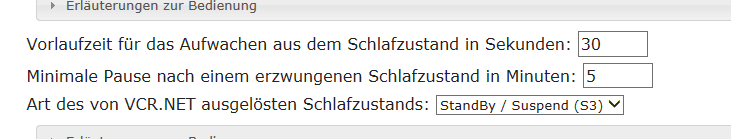
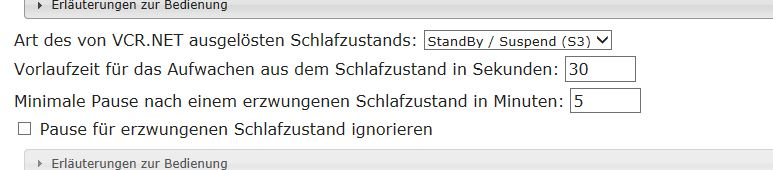
FAQ Hibernate

diff --git a/VCR.NET/WebClient41/FAQ/hibernation.html b/VCR.NET/WebClient41/FAQ/hibernation.html
@@ -7,97 +7,110 @@
     <div>
         <div id="faqContents" data-title="Schlafzustand">
             Der VCR.NET Recording Service ist ein unsichtbar im Hintergrund laufender Windows
-        Dienst, der selbstständig programmierte Aufzeichnungen und <a href="#faq;tasks">Sonderaufgaben</a>
+            Dienst, der selbstständig programmierte Aufzeichnungen und <a href="#faq;tasks">Sonderaufgaben</a>
             ausführen soll. Dabei ist die Zusammenarbeit mit dem Schlafzustand des Rechners
-        ein wichtiger Aspekt. Zum Verständnis der Abläufen werden nun einige Szenarien vorgestellt,
-        beginnend mit einem eher untypischen Fall: dem Betrieb des VCR.NET auf einem gesonderten
-        Rechner, dessen einzige Aufgabe die Aufzeichnung von DVB Ausstrahlungen ist. Der
-        untypische Fall für dieses Beispiel ist, dass es dem VCR.NET auch gestattet sei,
-        den Rechner in den Schlafzustand zu versetzen - ohne zusätzliche Maßnahmen steht
-        der Rechner dann nicht ständig zur Programmierung neuer Aufzeichnungen zur Verfügung.<br />
+            ein wichtiger Aspekt. Zum Verständnis der Abläufen werden nun einige Szenarien vorgestellt,
+            beginnend mit einem eher untypischen Fall: dem Betrieb des VCR.NET auf einem gesonderten
+            Rechner, dessen einzige Aufgabe die Aufzeichnung von DVB Ausstrahlungen ist. Der
+            untypische Fall für dieses Beispiel ist, dass es dem VCR.NET auch gestattet sei,
+            den Rechner in den Schlafzustand zu versetzen - ohne zusätzliche Maßnahmen steht
+            der Rechner dann nicht ständig zur Programmierung neuer Aufzeichnungen zur Verfügung.<br />
             <br />
             <img alt="Einstellungen zum Schlafzustand" class="faqShot" src="FAQ/hibernate.png" />
             <br />
             <br />
             Grundsätzlich stellt der VCR.NET Recording Service sicher, dass der Rechner für
-        programmierte Aufzeichnungen aus dem Schlafzustand aufgeweckt wird, egal wie der
-        Übergang in den Schlafzustand erfolgt ist. Dieses Verhalten kann nicht deaktiviert
-        werden. Im ersten Szenario arbeitet der VCR.NET Recording Service wie folgt: für
-        jede Aufzeichnung oder Sonderaufgabe wird der Rechner aus dem Schlafzustand aufgeweckt.
-        Da dieser Vorgang alleine von System zu System verschieden lange dauert, kann in
-        der Konfiguration eine entsprechende Vorlaufzeit programmiert werden. Diese ergibt
-        sich aus Erfahrungswerten und ist im Beispiel 30 Sekunden - auf einem anderen Rechner
-        reichten 150 Sekunden gerade einmal aus. Diese Zeit hat keinen Einfluss auf den
-        Beginn einer Aufzeichnung, sofern sie vernünftig gewählt wurde.
-        <br />
+            programmierte Aufzeichnungen aus dem Schlafzustand aufgeweckt wird, egal wie der
+            Übergang in den Schlafzustand erfolgt ist. Dieses Verhalten kann nicht deaktiviert
+            werden. Im ersten Szenario arbeitet der VCR.NET Recording Service wie folgt: für
+            jede Aufzeichnung oder Sonderaufgabe wird der Rechner aus dem Schlafzustand aufgeweckt.
+            Da dieser Vorgang alleine von System zu System verschieden lange dauert, kann in
+            der Konfiguration eine entsprechende Vorlaufzeit programmiert werden. Diese ergibt
+            sich aus Erfahrungswerten und ist im Beispiel 30 Sekunden - auf einem anderen Rechner
+            reichten 150 Sekunden gerade einmal aus. Diese Zeit hat keinen Einfluss auf den
+            Beginn einer Aufzeichnung, sofern sie vernünftig gewählt wurde.
+            <br />
             <br />
             Nach Abschluss einer Aufzeichnung oder Sonderaufgabe prüft der VCR.NET Recording
-        Service wann die nächste Aktion ansteht. Ist die Wartezeit kürzer als die in der
-        Konfiguration eingetragene minimale Pause (im Beispiel 5 Minuten), so wird nicht
-        nur auf den Übergang in den Schlafzustand verzichtet sondern zusätzlich sichergestellt,
-        dass das Betriebssystem keinen solchen Übergang von sich aus auslöst. Ist die Wartezeit
-        allerdings länger, so versetzt der VCR.NET Recording Service den Rechner in den
-        Schlafzustand, der in der Konfiguration gewählt wurde.
-        <br />
+            Service wann die nächste Aktion ansteht. Ist die Wartezeit kürzer als die in der
+            Konfiguration eingetragene minimale Pause (im Beispiel 5 Minuten), so wird nicht
+            nur auf den Übergang in den Schlafzustand verzichtet sondern zusätzlich sichergestellt,
+            dass das Betriebssystem keinen solchen Übergang von sich aus auslöst. Ist die Wartezeit
+            allerdings länger, so versetzt der VCR.NET Recording Service den Rechner in den
+            Schlafzustand, der in der Konfiguration gewählt wurde.
+            <br />
+            <br />
+            Wird der Rechner aus anderen Gründen in den Schlafzustand versetzt und die nächste
+            Aufzeichnung liegt in unmittelbarer Zukunft, so kann es sein, dass VCR.NET den Rechner
+            relativ kurzfristig wieder aufweckt. Ist die Option nicht aktiviert, die oben
+            im Bild ganz unten zu sehen ist, so versucht der VCR.NET eine minimale Verweildauer
+            im Schlafzustand herzustellen (im Beispiel 5 Minuten). Allerdings ist dies nicht in
+            jeder Systemkonfiguration möglich und kann im Extremfall dazu führen, dass der Rechner
+            gar nicht mehr für eine Folgeaufzeichnung aufgeweckt wird. Diese Einstellung ist daher
+            mit größter Vorsicht und nur bei Bedarf zu verwenden - nach der Installation ist die
+            Option daher anders als im Bild gezeigt aktiviert.
+            <br />
             <br />
             Verbietet die Konfiguration den Übergang in den Schlafzustand, so werden nach Abschluss
-        der Aufzeichnung oder Sonderaufgabe keine weiteren Schritte unternommen. Je nach
-        Einstellungen der Energieverwaltung von Windows bleibt der Rechner dann ständig
-        an oder geht nach einer bestimmten Wartezeit automatisch in den Schlafzustand. Der
-        VCR.NET Recording Service stellt in diesem Szenario lediglich sicher, dass dies
-        nicht geschieht, wenn die Zeit im Schlafzustand bis zur nächsten Aufzeichnung oder
-        Sonderaufgabe kleiner als die konfigurierte minimale Pause ist.
-        <br />
+            der Aufzeichnung oder Sonderaufgabe keine weiteren Schritte unternommen. Je nach
+            Einstellungen der Energieverwaltung von Windows bleibt der Rechner dann ständig
+            an oder geht nach einer bestimmten Wartezeit automatisch in den Schlafzustand. Der
+            VCR.NET Recording Service stellt in diesem Szenario lediglich sicher, dass dies
+            nicht geschieht, wenn die Zeit im Schlafzustand bis zur nächsten Aufzeichnung oder
+            Sonderaufgabe kleiner als die konfigurierte minimale Pause ist.
+            <br />
             <br />
             Ein etwas typischeres Szenario ist es wenn der VCR.NET Recording Service auf einem
-        Rechner betrieben wird, der auch für andere Aufgaben genutzt wird. Im Normalfall
-        ist dann häufig ein Anwender angemeldet und es wäre sehr lästig, wenn der
-        Rechner nach einer Aufzeichnung oder einer Sonderaufgabe spontan in den Schlafzustand
-        übergeht. Daher ist es dem VCR.NET Recording Service grundsätzlich untersagt, selbstständig
-        in den Schlafzustand zu wechseln, so lange noch ein Anwender angemeldet ist.
-        <br />
+            Rechner betrieben wird, der auch für andere Aufgaben genutzt wird. Im Normalfall
+            ist dann häufig ein Anwender angemeldet und es wäre sehr lästig, wenn der
+            Rechner nach einer Aufzeichnung oder einer Sonderaufgabe spontan in den Schlafzustand
+            übergeht. Daher ist es dem VCR.NET Recording Service grundsätzlich untersagt, selbstständig
+            in den Schlafzustand zu wechseln, so lange noch ein Anwender angemeldet ist.
+            <br />
             <br />
             Für einen möglichst einfachen Betrieb in diesem Szenario besitzt das <a href="#faq;controlcenter">VCR.NET Kontrollzentrum</a>
             eine besondere Einstellung - es handelt sich bei
-        dem Kontrollzentrum um die Anwendung, die normalerweise im so genannten System Tray
-        von Windows durch das Kamerasymbol visualisiert wird. Auf Wunsch ist es damit möglich,
-        einen Schlafzustand verzögert auslösen zu lassen.<br />
+            dem Kontrollzentrum um die Anwendung, die normalerweise im so genannten System Tray
+            von Windows durch das Kamerasymbol visualisiert wird. Auf Wunsch ist es damit möglich,
+            einen Schlafzustand verzögert auslösen zu lassen.<br />
             <br />
             <img alt="Kontrollzentrum" class="faqShot" src="FAQ/hibernatevcc.png" />
             <br />
             <br />
             Das Kontrollzentrum erkennt wenn der VCR.NET Recording Service eigentlich in den
-        Schlafzustand übergehen möchte und führt dann nach der angegebenen Verzögerung genau
-        diesen Übergang aus. In der Zwischenzeit kann der Anwender über einen entsprechenden
-        Dialog den Vorgang jederzeit abbrechen und normal weiter arbeiten. Ist der Anwender
-        gerade nicht aktiv, so greifen zusätzlich die Einstellung der Energieoptionen von
-        Windows. Dadurch kann es dann sogar sein, dass der Rechner vor der angegebenen Zeit
-        in den Schlafzustand geht, weil Windows keine Aktivitäten des Anwenders mehr wahrnimmt.
-        <br />
+            Schlafzustand übergehen möchte und führt dann nach der angegebenen Verzögerung genau
+            diesen Übergang aus. In der Zwischenzeit kann der Anwender über einen entsprechenden
+            Dialog den Vorgang jederzeit abbrechen und normal weiter arbeiten. Ist der Anwender
+            gerade nicht aktiv, so greifen zusätzlich die Einstellung der Energieoptionen von
+            Windows. Dadurch kann es dann sogar sein, dass der Rechner vor der angegebenen Zeit
+            in den Schlafzustand geht, weil Windows keine Aktivitäten des Anwenders mehr wahrnimmt.
+            <br />
             <br />
             <img alt="Warten auf den Schlafzustand" class="faqShot" src="FAQ/manualsleep.png" /><br />
             <br />
-            Das VCR.NET Kontrollzentrum hat aber noch eine <a href="#faq;controlcenter">weitere
-            nützliche Funktion</a>, die nicht deaktiviert werden kann. Aus der Hintergrundfarbe
-        des Kamerasymbols kann direkt abgelesen werden, was der VCR.NET Recording Service
-        gerade tut. Ist die Farbe <span class="vccBlue">Blau</span>, so wird gerade mindestens eine Aufzeichnung oder
-        Sonderaufgabe ausgeführt. Bei <span class="vccYellow">Gelb</span> steht eine Aufzeichnung in naher Zukunft an -
-        konkret wie oben konfiguriert näher als die minimale Verweilzeit im Schlafzustand.
-        Der Anwender ist angehalten, diese Farbe zu beachten, wenn der Rechner spontan manuell
-        in den Schlafzustand versetzt wird.
-        <br />
+            Das VCR.NET Kontrollzentrum hat aber noch eine <a href="#faq;controlcenter">
+                weitere
+                nützliche Funktion
+            </a>, die nicht deaktiviert werden kann. Aus der Hintergrundfarbe
+            des Kamerasymbols kann direkt abgelesen werden, was der VCR.NET Recording Service
+            gerade tut. Ist die Farbe <span class="vccBlue">Blau</span>, so wird gerade mindestens eine Aufzeichnung oder
+            Sonderaufgabe ausgeführt. Bei <span class="vccYellow">Gelb</span> steht eine Aufzeichnung in naher Zukunft an -
+            konkret wie oben konfiguriert näher als die minimale Verweilzeit im Schlafzustand.
+            Der Anwender ist angehalten, diese Farbe zu beachten, wenn der Rechner spontan manuell
+            in den Schlafzustand versetzt wird.
+            <br />
             <br />
             Es ist dem VCR.NET Recording Service nicht möglich, einen solchen manuellen Übergang
-        in den Schlafzustand zu verhindern. Tritt ein solcher Fall ein, so werden alle laufenden
-        Aufzeichnung und Sonderaufgaben so abgebrochen, als würde der Anwender dies über
-        die Web Oberfläche tun - das heißt vor allem, dass die jeweilige Aktion nach einem
-        Neustart nicht fortgesetzt wird. Damit der Rechner nicht aufwacht, wird zusätzlich
-        die minimale Verweilzeit im Schlafzustand beachtet. Würde eine Aufzeichnung in näherer
-        Zukunft anstehen, so wird sich der Start entsprechend verzögern, was bei Aufzeichnungen
-        einem Verlust durch zu spätem Starten gleichkommt. Daher die goldene Regel: wird
-        der Rechner mit dem VCR.NET Recording Service in den Schlafzustand versetzt während
-        das Kontrollzentrum Blau oder Gelb hinterlegt ist, so ist mit einem Verlust an Aufzeichnungsdaten
-        zu rechnen.
+            in den Schlafzustand zu verhindern. Tritt ein solcher Fall ein, so werden alle laufenden
+            Aufzeichnung und Sonderaufgaben so abgebrochen, als würde der Anwender dies über
+            die Web Oberfläche tun - das heißt vor allem, dass die jeweilige Aktion nach einem
+            Neustart nicht fortgesetzt wird. Damit der Rechner nicht aufwacht, wird zusätzlich
+            die minimale Verweilzeit im Schlafzustand beachtet. Würde eine Aufzeichnung in näherer
+            Zukunft anstehen, so wird sich der Start entsprechend verzögern, was bei Aufzeichnungen
+            einem Verlust durch zu spätem Starten gleichkommt. Daher die goldene Regel: wird
+            der Rechner mit dem VCR.NET Recording Service in den Schlafzustand versetzt während
+            das Kontrollzentrum Blau oder Gelb hinterlegt ist, so ist mit einem Verlust an Aufzeichnungsdaten
+            zu rechnen.
         </div>
     </div>
 </body>
